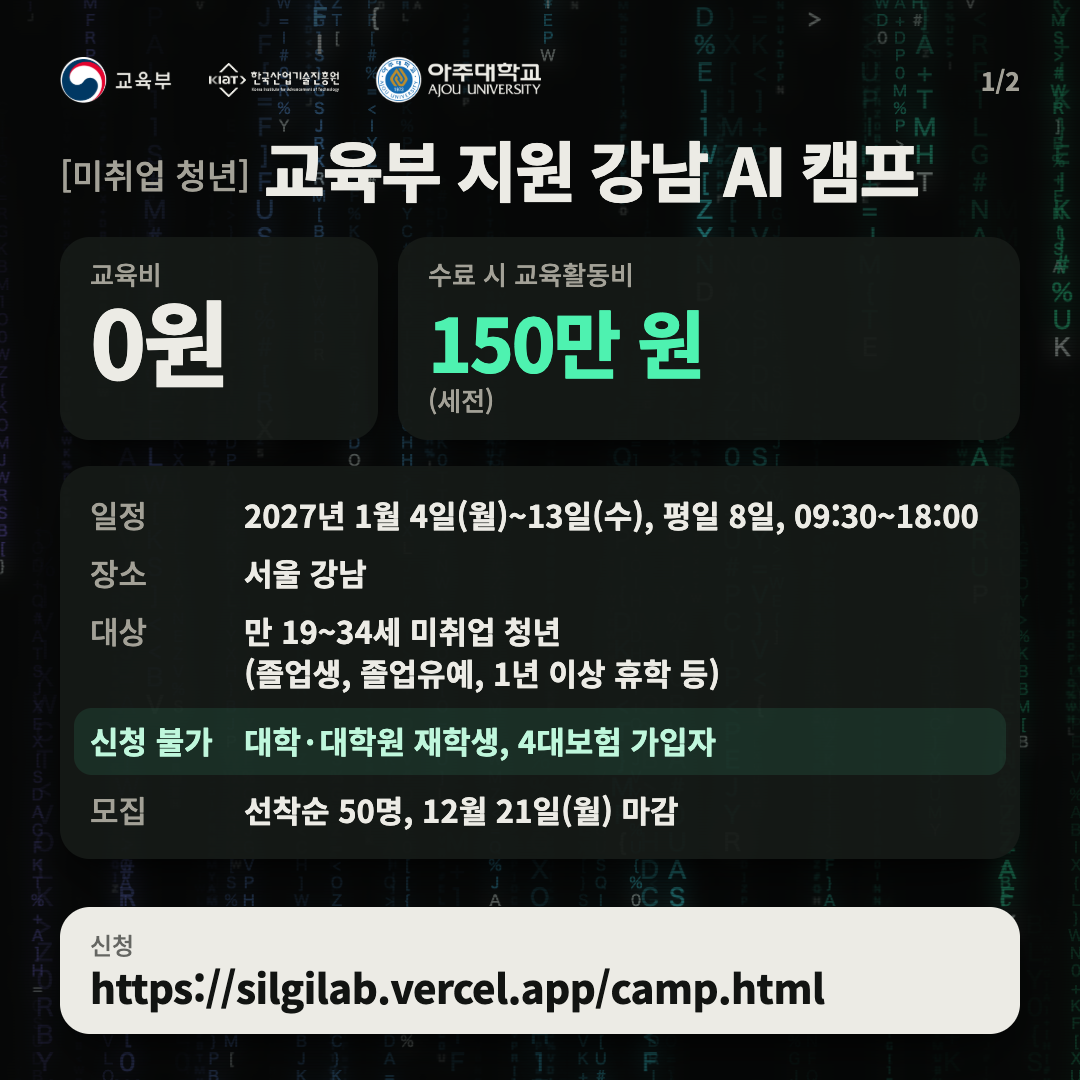
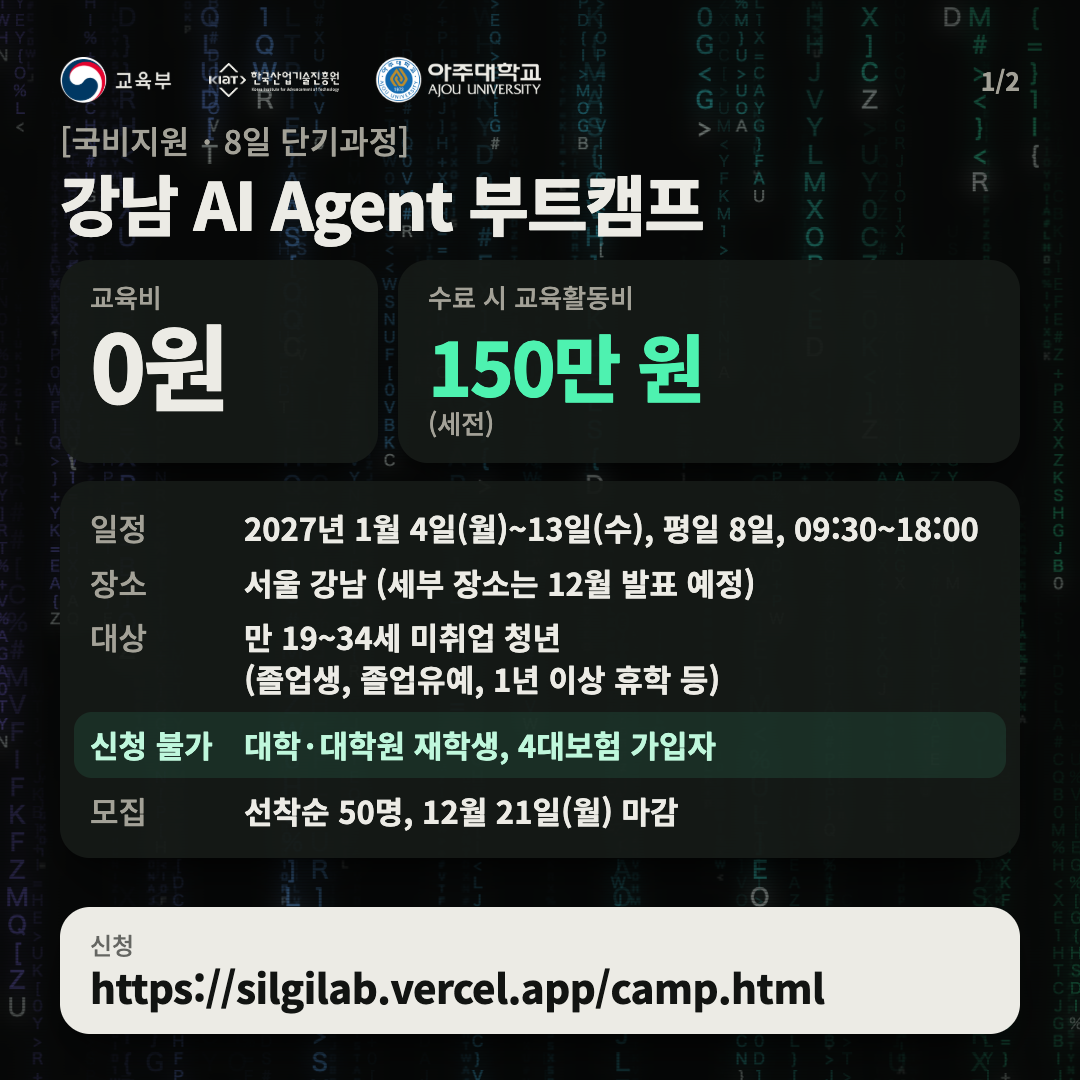
New title, no-card note, venue note, dark ad image
- Title: "[국비지원 · 8일 단기과정] 강남 AI Agent 부트캠프" on both pages, the scroll opening, <title>/og:title, camp.txt, redirect pages and all four cards. The official course name stays as the first line of the details.
- Details: "내일배움카드 없이 신청" row, venue "(세부 장소는 12월 발표 예정)", and the payment-criteria sentence moved to a small gray second line.
- Ad image redrawn in the dark mint style with a fainter rain; still no logos or coupon brand, and keeps "최대 150만 원".

diff --git a/source/cards.html b/source/cards.html
@@ -43,7 +43,7 @@ body{margin:0;background:#777;font-family:"Noto Sans KR","Malgun Gothic",sans-se
 .who .pg{margin-left:auto;font-weight:700;color:var(--ink)}
 
 h1{margin:0;font-size:66px;line-height:1.16;font-weight:800;letter-spacing:-.032em}
-h1 .tag{font-size:34px;font-weight:500;color:var(--mute);letter-spacing:0;margin-right:14px;vertical-align:8px}
+h1 .tag{display:block;font-size:32px;font-weight:500;color:var(--mute);letter-spacing:0;line-height:1.3;margin-bottom:2px}
 .kicker{margin:0 0 4px;font-size:30px;font-weight:500;color:var(--mute)}
 
 .money{display:grid;grid-template-columns:318px 1fr;gap:20px;margin:28px 0 0}
@@ -114,7 +114,7 @@ h1 .tag{font-size:34px;font-weight:500;color:var(--mute);letter-spacing:0;margin
 #ad .meta{margin:40px 0 0;font-size:32px;font-weight:700;line-height:1.5}
 #ad .meta span{color:var(--mute);font-weight:500}
 
-/* dark cards (portrait, square1, square2), matching camp.html. #ad stays light. */
+/* dark cards, matching camp.html. The ad keeps no logos or coupon brand (ad policy) and a fainter rain so it stays simple when shown small. */
 .dk{--ink:#ecebe5;--mute:#a3a197;--accent:#4ef2b0;--warn:#bff7dc;
   --glass:rgba(21,25,22,.95);--glass-strong:rgba(255,255,255,.1);--rose:rgba(78,242,176,.10);
   --lift:0 34px 64px -30px rgba(0,0,0,.9),0 10px 22px -14px rgba(0,0,0,.7);
@@ -132,6 +132,15 @@ h1 .tag{font-size:34px;font-weight:500;color:var(--mute);letter-spacing:0;margin
 .dk .cta .lab{opacity:.62}
 .dk .c2 .opt,.dk.c2 .opt{background:rgba(255,255,255,.05)}
 .dk .phrase{box-shadow:none}
+#ad .rain{opacity:.3}
+/* the title tag sits on its own line; win the height back from the gaps */
+#portrait .marks,#square1 .marks{margin-bottom:16px}
+#portrait .money{margin-top:18px}
+#portrait .info{margin-top:14px}
+#portrait .info>div{padding:5px 0}
+#square1 .money{margin-top:20px}
+#square1 .info{margin-top:18px}
+#square1 .info>div{padding:6px 0}
 </style>
 </head>
 <body>
@@ -140,14 +149,14 @@ h1 .tag{font-size:34px;font-weight:500;color:var(--mute);letter-spacing:0;margin
 <section class="card pt dk" id="portrait">
   <canvas class="rain" width="1080" height="1350"></canvas>
   <div class="marks"><span class="chip"><img class="moe" src="../img/logo-moe-dark.png" alt="교육부"><img class="kiat" src="../img/logo-kiat-dark.png" alt="한국산업기술진흥원(KIAT)"><img class="ajou" src="../img/logo-ajou-dark.png" alt="아주대학교"></span></div>
-  <h1><span class="tag">[미취업 청년]</span>교육부 지원 강남 AI 캠프</h1>
+  <h1><span class="tag">[국비지원 · 8일 단기과정]</span>강남 AI Agent 부트캠프</h1>
   <div class="money">
     <div class="glass"><small>교육비</small><strong>0원</strong></div>
     <div class="glass pay"><small>수료 시 교육활동비</small><strong>150만 원</strong><em>(세전)</em></div>
   </div>
   <dl class="info glass">
     <div><dt>일정</dt><dd>2027년 1월 4일(월)~13일(수), 평일 8일, 09:30~18:00</dd></div>
-    <div><dt>장소</dt><dd>서울 강남</dd></div>
+    <div><dt>장소</dt><dd>서울 강남 (세부 장소는 12월 발표 예정)</dd></div>
     <div><dt>대상</dt><dd>만 19~34세 미취업 청년<br>(졸업생, 졸업유예, 1년 이상 휴학 등)</dd></div>
     <div class="no"><dt>신청 불가</dt><dd>대학·대학원 재학생, 4대보험 가입자</dd></div>
     <div><dt>모집</dt><dd>선착순 50명, 12월 21일(월) 마감</dd></div>
@@ -168,14 +177,14 @@ h1 .tag{font-size:34px;font-weight:500;color:var(--mute);letter-spacing:0;margin
 <section class="card sq dk" id="square1">
   <canvas class="rain" width="1080" height="1080"></canvas>
   <div class="marks"><span class="chip"><img class="moe" src="../img/logo-moe-dark.png" alt="교육부"><img class="kiat" src="../img/logo-kiat-dark.png" alt="한국산업기술진흥원(KIAT)"><img class="ajou" src="../img/logo-ajou-dark.png" alt="아주대학교"></span><span class="pg">1/2</span></div>
-  <h1><span class="tag">[미취업 청년]</span>교육부 지원 강남 AI 캠프</h1>
+  <h1><span class="tag">[국비지원 · 8일 단기과정]</span>강남 AI Agent 부트캠프</h1>
   <div class="money">
     <div class="glass"><small>교육비</small><strong>0원</strong></div>
     <div class="glass pay"><small>수료 시 교육활동비</small><strong>150만 원</strong><em>(세전)</em></div>
   </div>
   <dl class="info glass">
     <div><dt>일정</dt><dd>2027년 1월 4일(월)~13일(수), 평일 8일, 09:30~18:00</dd></div>
-    <div><dt>장소</dt><dd>서울 강남</dd></div>
+    <div><dt>장소</dt><dd>서울 강남 (세부 장소는 12월 발표 예정)</dd></div>
     <div><dt>대상</dt><dd>만 19~34세 미취업 청년<br>(졸업생, 졸업유예, 1년 이상 휴학 등)</dd></div>
     <div class="no"><dt>신청 불가</dt><dd>대학·대학원 재학생, 4대보험 가입자</dd></div>
     <div><dt>모집</dt><dd>선착순 50명, 12월 21일(월) 마감</dd></div>
@@ -190,7 +199,7 @@ h1 .tag{font-size:34px;font-weight:500;color:var(--mute);letter-spacing:0;margin
 <section class="card sq c2 dk" id="square2">
   <canvas class="rain" width="1080" height="1080"></canvas>
   <div class="marks"><span class="chip"><img class="moe" src="../img/logo-moe-dark.png" alt="교육부"><img class="kiat" src="../img/logo-kiat-dark.png" alt="한국산업기술진흥원(KIAT)"><img class="ajou" src="../img/logo-ajou-dark.png" alt="아주대학교"></span><span class="pg">2/2</span></div>
-  <p class="kicker">교육부 지원 강남 AI 캠프</p>
+  <p class="kicker">[국비지원 · 8일 단기과정] 강남 AI Agent 부트캠프</p>
   <h1>[스타벅스 1만 원 쿠폰]</h1>
   <div class="steps glass">
     <div class="step"><i>1</i><div>신청서의 '캠프를 어떻게 알게 되었나요?'에서 '지인 추천'을 골라 주세요.</div></div>
@@ -209,9 +218,10 @@ h1 .tag{font-size:34px;font-weight:500;color:var(--mute);letter-spacing:0;margin
 </section>
 
 <!-- 1080 x 1080, ChatGPT ad / link preview image -->
-<section class="card sq" id="ad">
-  <p class="kicker">8일 오프라인 과정</p>
-  <h1>강남 생성형 AI 집중 캠프</h1>
+<section class="card sq dk" id="ad">
+  <canvas class="rain" width="1080" height="1080"></canvas>
+  <p class="kicker">[국비지원 · 8일 단기과정] 내일배움카드 없이 신청</p>
+  <h1>강남 AI Agent 부트캠프</h1>
   <div class="hero glass"><small>교육비</small><strong>0원</strong></div>
   <div class="hero glass pay"><small>수료 시 교육활동비</small><strong>최대 150만 원</strong><em>(세전)</em></div>
   <p class="meta">2027년 1월 4일(월)~13일(수) · 서울 강남<br><span>만 19~34세 미취업 청년 · 12월 21일(월) 마감</span></p>

diff --git a/camp-scroll.html b/camp-scroll.html
@@ -3,12 +3,12 @@
 <head>
 <meta charset="utf-8">
 <meta name="viewport" content="width=device-width, initial-scale=1">
-<title>[미취업 청년] 교육부 지원 강남 AI 캠프 · 교육비 0원 · 수료 시 150만 원</title>
+<title>[국비지원 · 8일 단기과정] 강남 AI Agent 부트캠프 · 교육비 0원 · 수료 시 150만 원</title>
 <meta name="description" content="교육비 0원, 수료 시 교육활동비 150만 원. 8일 동안 바이브코딩으로 AI 에이전트를 직접 만드는 오프라인 과정입니다.">
 <link rel="canonical" href="https://jasonwpgml.github.io/camp-promo/camp-scroll.html">
 <meta property="og:type" content="website">
 <meta property="og:url" content="https://jasonwpgml.github.io/camp-promo/camp-scroll.html">
-<meta property="og:title" content="[미취업 청년] 교육부 지원 강남 AI 캠프 · 교육비 0원 · 수료 시 150만 원">
+<meta property="og:title" content="[국비지원 · 8일 단기과정] 강남 AI Agent 부트캠프 · 교육비 0원 · 수료 시 150만 원">
 <meta property="og:description" content="8일 동안 바이브코딩으로 AI 에이전트를 직접 만드는 오프라인 과정입니다. 2027년 1월 4일(월)~13일(수), 서울 강남.">
 <meta property="og:image" content="https://jasonwpgml.github.io/camp-promo/camp-1080x1080-1.png">
 <meta property="og:image:width" content="1080">
@@ -117,10 +117,12 @@ a:focus-visible,button:focus-visible{outline:3px solid var(--accent);outline-off
 .rest h2{margin:0 0 12px;font-size:20px;font-weight:800}
 .rest dl.info{margin:0;padding:10px 20px}
 .rest dl.info>div{display:grid;grid-template-columns:96px 1fr;gap:12px;padding:10px 0}
+.rest dl.info dt{white-space:nowrap}
 .rest dt{font-weight:500;color:var(--mute)}
 .rest dd{margin:0;font-weight:600}
 .rest dd a{color:var(--accent);text-underline-offset:3px}
 .rest .hint-tel{display:block;margin-top:2px;font-size:14px;font-weight:500;color:var(--mute)}
+.rest .pay-note{display:block;margin-top:4px;font-size:14px;line-height:1.5;font-weight:500;color:var(--mute)}
 .rest dl.info>div.no{background:var(--rose);border-radius:14px;margin:6px -10px;padding:12px 10px}
 .rest dl.info>div.no dt,.rest dl.info>div.no dd{color:var(--warn);font-weight:700}
 @media (max-width:400px){.rest dl.info>div{grid-template-columns:1fr;gap:2px}}
@@ -172,8 +174,8 @@ a:focus-visible,button:focus-visible{outline:3px solid var(--accent);outline-off
       <img class="kiat" src="img/logo-kiat-dark.png" alt="한국산업기술진흥원(KIAT)">
       <img class="ajou" src="img/logo-ajou-dark.png" alt="아주대학교">
     </div>
-    <p class="k t">[미취업 청년 대상]</p>
-    <p class="ttl t">교육부 지원 강남 AI 캠프</p>
+    <p class="k t">[국비지원 · 8일 단기과정]</p>
+    <p class="ttl t">강남 AI Agent 부트캠프</p>
     <p class="event t">(스타벅스 1만원 쿠폰 이벤트)</p>
   </section>
 
@@ -194,6 +196,7 @@ a:focus-visible,button:focus-visible{outline:3px solid var(--accent);outline-off
     <p class="when t">2027년 1월 4일(월)~13일(수)</p>
     <p class="when t">평일 8일, 09:30~18:00</p>
     <p class="when mint t">서울 강남</p>
+    <p class="tax t">세부 장소는 12월 발표 예정</p>
   </section>
 </div>
 
@@ -208,7 +211,7 @@ a:focus-visible,button:focus-visible{outline:3px solid var(--accent);outline-off
 </div>
 
 <header>
-  <h1><span class="tag">[미취업 청년 대상]</span>교육부 지원 강남 AI 캠프</h1>
+  <h1><span class="tag">[국비지원 · 8일 단기과정]</span>강남 AI Agent 부트캠프</h1>
   <p class="event">(스타벅스 1만원 쿠폰 이벤트)</p>
   <div class="money" role="group" aria-label="교육비 0원, 수료 시 교육활동비 150만 원">
     <div class="glass"><small>교육비</small><strong>0원</strong></div>
@@ -220,12 +223,14 @@ a:focus-visible,button:focus-visible{outline:3px solid var(--accent);outline-off
 <section aria-labelledby="h-info">
   <h2 id="h-info">모집 안내</h2>
   <dl class="info glass">
+    <div><dt>과정명</dt><dd>생성형 AI 집중 캠프 (신청 사이트 표기)</dd></div>
     <div><dt>일정</dt><dd>2027년 1월 4일(월)~13일(수), 평일 8일, 09:30~18:00</dd></div>
-    <div><dt>장소</dt><dd>서울 강남</dd></div>
+    <div><dt>장소</dt><dd>서울 강남 (세부 장소는 12월 발표 예정)</dd></div>
     <div><dt>대상</dt><dd>만 19~34세 미취업 청년 (졸업생, 졸업유예, 1년 이상 휴학 등)</dd></div>
     <div class="no"><dt>신청 불가</dt><dd>대학·대학원 재학생, 4대보험 가입자</dd></div>
+    <div><dt>내일배움카드</dt><dd>없어도 신청할 수 있습니다</dd></div>
     <div><dt>모집</dt><dd>선착순 50명, 12월 21일(월) 마감</dd></div>
-    <div><dt>교육활동비</dt><dd>수료 시 최대 150만 원(세전). 지급 기준이 까다롭지 않아서 빠지지 않고 성실히 참여하시면 받으실 수 있습니다.</dd></div>
+    <div><dt>교육활동비</dt><dd>수료 시 최대 150만 원(세전). <span class="pay-note">지급 기준이 까다롭지 않아서 빠지지 않고 성실히 참여하시면 받으실 수 있습니다.</span></dd></div>
     <div><dt>주관</dt><dd>아주대학교 청년도약 부트캠프 사업단</dd></div>
     <div><dt>문의</dt><dd><a href="tel:02-2039-9355" data-goatcounter-click="click-call" data-goatcounter-title="문의 전화">02-2039-9355</a> <span class="hint-tel">눌러서 전화하기</span></dd></div>
   </dl>

diff --git a/camp.html b/camp.html
@@ -3,12 +3,12 @@
 <head>
 <meta charset="utf-8">
 <meta name="viewport" content="width=device-width, initial-scale=1">
-<title>[미취업 청년] 교육부 지원 강남 AI 캠프 · 교육비 0원 · 수료 시 150만 원</title>
+<title>[국비지원 · 8일 단기과정] 강남 AI Agent 부트캠프 · 교육비 0원 · 수료 시 150만 원</title>
 <meta name="description" content="교육비 0원, 수료 시 교육활동비 150만 원. 8일 동안 바이브코딩으로 AI 에이전트를 직접 만드는 오프라인 과정입니다.">
 <link rel="canonical" href="https://jasonwpgml.github.io/camp-promo/camp.html">
 <meta property="og:type" content="website">
 <meta property="og:url" content="https://jasonwpgml.github.io/camp-promo/camp.html">
-<meta property="og:title" content="[미취업 청년] 교육부 지원 강남 AI 캠프 · 교육비 0원 · 수료 시 150만 원">
+<meta property="og:title" content="[국비지원 · 8일 단기과정] 강남 AI Agent 부트캠프 · 교육비 0원 · 수료 시 150만 원">
 <meta property="og:description" content="8일 동안 바이브코딩으로 AI 에이전트를 직접 만드는 오프라인 과정입니다. 2027년 1월 4일(월)~13일(수), 서울 강남.">
 <meta property="og:image" content="https://jasonwpgml.github.io/camp-promo/camp-1080x1080-1.png">
 <meta property="og:image:width" content="1080">
@@ -81,10 +81,12 @@ section{margin:28px 0 0}
 h2{margin:0 0 12px;font-size:20px;font-weight:800}
 dl.info{margin:0;padding:10px 20px}
 dl.info>div{display:grid;grid-template-columns:96px 1fr;gap:12px;padding:10px 0}
+dl.info dt{white-space:nowrap}
 dt{font-weight:500;color:var(--mute)}
 dd{margin:0;font-weight:600}
 dd a{color:var(--accent);text-underline-offset:3px}
 .hint-tel{display:block;margin-top:2px;font-size:14px;font-weight:500;color:var(--mute)}
+.pay-note{display:block;margin-top:4px;font-size:14px;line-height:1.5;font-weight:500;color:var(--mute)}
 dl.info>div.no{background:var(--rose);border-radius:14px;margin:6px -10px;padding:12px 10px}
 dl.info>div.no dt,dl.info>div.no dd{color:var(--warn);font-weight:700}
 @media (max-width:400px){
@@ -147,7 +149,7 @@ footer p{margin:0 0 4px}
 </div>
 
 <header>
-  <h1><span class="tag">[미취업 청년 대상]</span>교육부 지원 강남 AI 캠프</h1>
+  <h1><span class="tag">[국비지원 · 8일 단기과정]</span>강남 AI Agent 부트캠프</h1>
   <p class="event">(스타벅스 1만원 쿠폰 이벤트)</p>
   <div class="money" role="group" aria-label="교육비 0원, 수료 시 교육활동비 150만 원">
     <div class="glass"><small>교육비</small><strong>0원</strong></div>
@@ -159,12 +161,14 @@ footer p{margin:0 0 4px}
 <section aria-labelledby="h-info">
   <h2 id="h-info">모집 안내</h2>
   <dl class="info glass">
+    <div><dt>과정명</dt><dd>생성형 AI 집중 캠프 (신청 사이트 표기)</dd></div>
     <div><dt>일정</dt><dd>2027년 1월 4일(월)~13일(수), 평일 8일, 09:30~18:00</dd></div>
-    <div><dt>장소</dt><dd>서울 강남</dd></div>
+    <div><dt>장소</dt><dd>서울 강남 (세부 장소는 12월 발표 예정)</dd></div>
     <div><dt>대상</dt><dd>만 19~34세 미취업 청년 (졸업생, 졸업유예, 1년 이상 휴학 등)</dd></div>
     <div class="no"><dt>신청 불가</dt><dd>대학·대학원 재학생, 4대보험 가입자</dd></div>
+    <div><dt>내일배움카드</dt><dd>없어도 신청할 수 있습니다</dd></div>
     <div><dt>모집</dt><dd>선착순 50명, 12월 21일(월) 마감</dd></div>
-    <div><dt>교육활동비</dt><dd>수료 시 최대 150만 원(세전). 지급 기준이 까다롭지 않아서 빠지지 않고 성실히 참여하시면 받으실 수 있습니다.</dd></div>
+    <div><dt>교육활동비</dt><dd>수료 시 최대 150만 원(세전). <span class="pay-note">지급 기준이 까다롭지 않아서 빠지지 않고 성실히 참여하시면 받으실 수 있습니다.</span></dd></div>
     <div><dt>주관</dt><dd>아주대학교 청년도약 부트캠프 사업단</dd></div>
     <div><dt>문의</dt><dd><a href="tel:02-2039-9355" data-goatcounter-click="click-call" data-goatcounter-title="문의 전화">02-2039-9355</a> <span class="hint-tel">눌러서 전화하기</span></dd></div>
   </dl>

diff --git a/index.html b/index.html
@@ -3,7 +3,7 @@
 <head>
 <meta charset="utf-8">
 <meta name="viewport" content="width=device-width, initial-scale=1">
-<title>강남 생성형 AI 집중 캠프 모집 안내</title>
+<title>[국비지원 · 8일 단기과정] 강남 AI Agent 부트캠프 모집 안내</title>
 <link rel="canonical" href="https://jasonwpgml.github.io/camp-promo/camp.html">
 <meta http-equiv="refresh" content="0; url=camp.html">
 <style>body{margin:0;padding:24px 16px;background:#ebe4d9;color:#1e1b17;font-family:"Noto Sans KR","Apple SD Gothic Neo","Malgun Gothic",sans-serif}</style>

diff --git a/camp-live.html b/camp-live.html
@@ -3,7 +3,7 @@
 <head>
 <meta charset="utf-8">
 <meta name="viewport" content="width=device-width, initial-scale=1">
-<title>강남 AI 캠프 모집 안내</title>
+<title>[국비지원 · 8일 단기과정] 강남 AI Agent 부트캠프 모집 안내</title>
 <link rel="canonical" href="https://jasonwpgml.github.io/camp-promo/camp.html">
 <meta http-equiv="refresh" content="0; url=camp.html">
 <meta name="robots" content="noindex">
